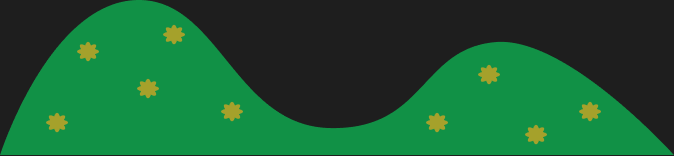
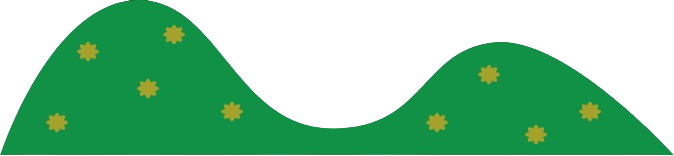
added the javascript but for some reasont he happy guy is still not visible also made the 2.5d website thingy

diff --git a/index.html b/index.html
@@ -16,6 +16,7 @@
         justify-content: center;
         display: flex;
         background-color: #000000;
+        
      }
      .bg{
         position: fixed;
@@ -28,7 +29,7 @@
         background-repeat: no-repeat;
         filter: brightness(0.75);
         z-index: 0;
-        transition: transform 0.5s ease-in-out;
+        transition: transform 0.5s ease-out, filter 0.3s ease;
         filter: 0.3s ease;
      }
      body.horror-mode .bg{
@@ -36,22 +37,22 @@
      }
      .scene{
         position: relative;
-        width: min(92vw, 860px);
-        height: min(92vh, 600px);
-        transform-origin: preserve-3d;
+        width: min(92vw, 1280px);
+        height: min(92vh, 920px);
+        transform-style: preserve-3d;
         transition:transform 0.1s ease-out;
         will-change: transform;
         z-index: 2;
      }
      .bush{
         position: absolute;
-        bottom: 35px;
+        bottom: 0px;
         left: 50%;
         width: 115%;
         height: 130px;
         object-fit: fill;
         transform: translateX(-50%) translateZ(95px);
-        filter: brightness(0.25) drop-shadow(0 -8px 15px rgba(0,0,0,0.9s));
+        filter: brightness(0.25) drop-shadow(0 -8px 15px rgba(0,0,0,0.9));
         pointer-events: none;
      }
      .insidethingy{
@@ -90,11 +91,11 @@
         opacity: 0.85;
         transform: scale(1.15);
      }
-     .blub{
+     .bulb{
         position: absolute;
-        top: 12%;
-        left: 24%;
-        width: 38px;
+        top: 8%;
+        left: 15%;
+        width: 70px;
         transform: translateX(-50%);
         filter: drop-shadow(0 0 18px rgba(255, 230, 90, 0.9));
         transition: filter 0.3s ease;
@@ -194,7 +195,30 @@
         const bulbimg = document.getElementById('bulbimg')
         const lever = document.getElementById('lever')
         const happyguy = document.querySelector('.happyguy')
-
+       let shiton =false;
+       window.addEventListener('mousemove', (e) =>{
+        const x = e.clientX / window.innerWidth - 0.5
+        const y = e.clientY / window.innerHeight - 0.5
+        scene.style.transform = `rotateX(${y * 15}deg) rotateY(${x * 15}deg)`
+        forestBg.style.transform = `rotateX(${y * 15}deg) rotateY(${x * 15}deg)`
+        roomimg.style.transform = `rotateX(${y * 15}deg) rotateY(${x * 15}deg)`
+       })
+       lever.addEventListener('click', () =>{
+        shiton = !shiton
+        lever.classList.add('puller')
+        setTimeout(() => 
+            lever.classList.remove('puller'), 250
+        )
+        roomimg.classList.remove('flickering')
+        void roomimg.offsetWidth
+        roomimg.classList.add('flickering')
+        setTimeout(() => {
+            document.body.classList.toggle('horror-mode', shiton)
+            roomimg.src = shiton ? 'assests/bgdark2.png' : 'assests/bg.png'
+            bulbimg.src = shiton ? 'assests/blubdark.png' : 'assests/blub.png'
+            happyguy.src = shiton ? 'assests/ee.png' : 'assests/happyguy.png'
+        }, 180)
+       })
     </script>
     
   </body>
